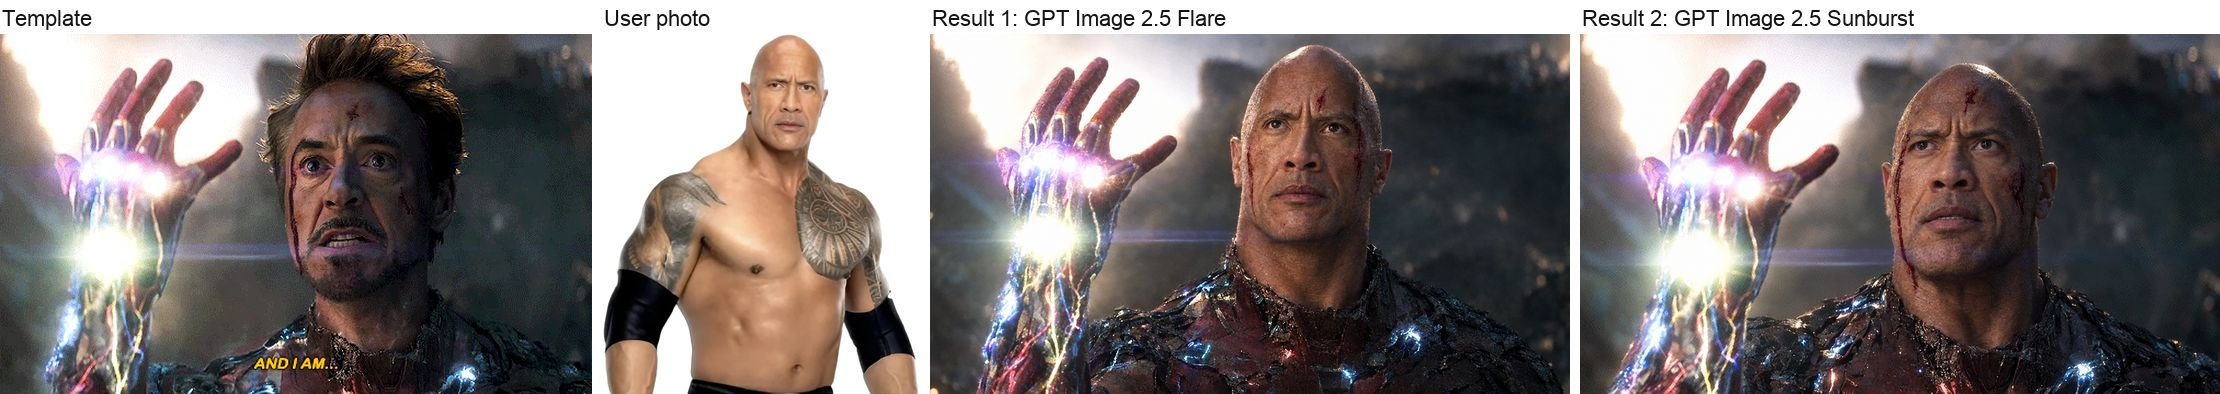
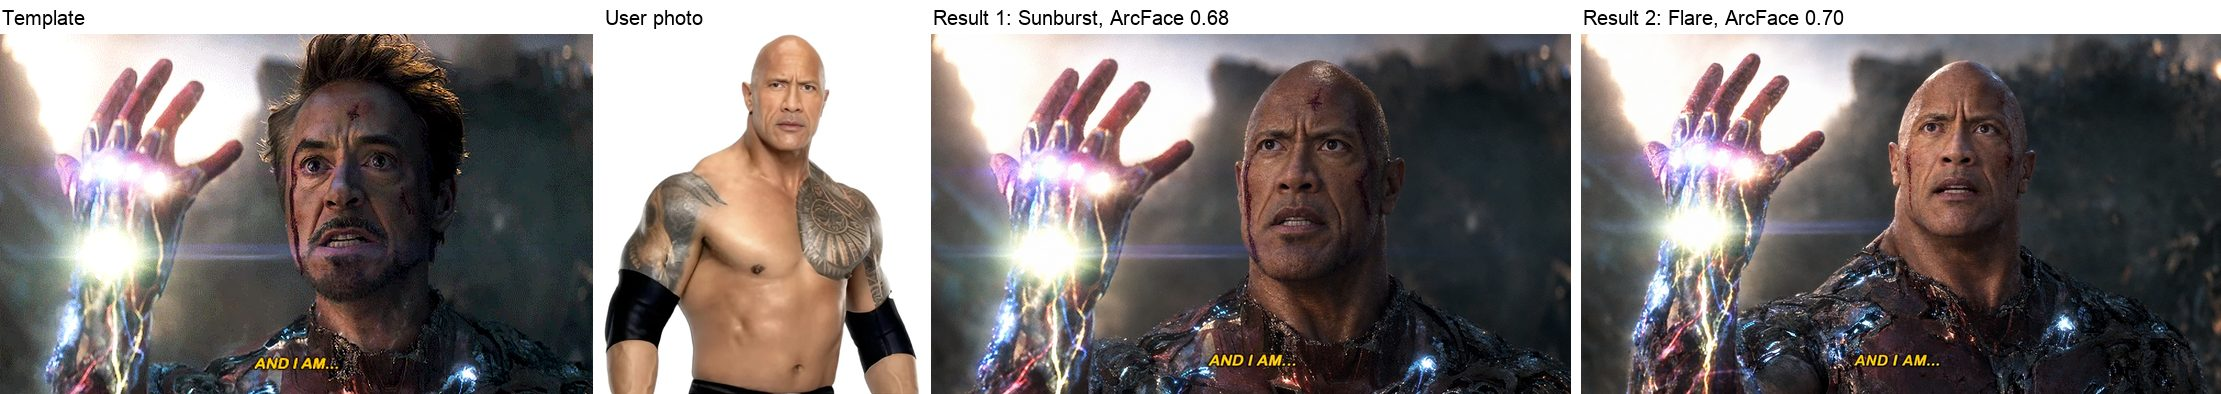
feat: child route tries GPT Image 2.5 first, all three cases pass
- Child route: Sunburst then Flare; a version OpenAI refuses moves to Seedream 5.0 Lite.
  FLUX.2 dev is no longer routed.
- Face repair is off unless ENABLE_FACE_REPAIR=true, in the workflow and the test runner.
- README: new results for all 5 directions (case 3 child -> adult now passes), ArcFace
  scores in the result strips, the new child-route rule, cost and time, where it fails.

Claude-Session: https://claude.ai/code/session_019DKUk5cNGWMUFkP1jeFoUm

diff --git a/tests/pipeline/runSwap.test.ts b/tests/pipeline/runSwap.test.ts
@@ -1,4 +1,4 @@
-import { describe, expect, it } from 'vitest';
+import { afterEach, describe, expect, it, vi } from 'vitest';
 import { FatalError, SpendCapError } from '@/src/errors';
 import { runSwap } from '@/src/pipeline/runSwap';
 import { analyze, generateVersion, prepareInputs } from '@/src/pipeline/steps';
@@ -17,6 +17,8 @@ function spyReservations(deps: Deps): Reservation[] {
 }
 
 describe('runSwap', () => {
+  afterEach(() => vi.unstubAllEnvs());
+
   it('adult job makes two versions and ranks them', async () => {
     const f = await makeFakes();
     const out = await runSwap(f.deps, f.input());
@@ -28,33 +30,28 @@ describe('runSwap', () => {
     expect(out.costs.length).toBeGreaterThan(0);
   });
 
-  it('child job never calls an OpenAI model', async () => {
+  it('a child job runs Sunburst and Flare first, never FLUX.2 dev', async () => {
     const f = await makeFakes({ templateAge: 9 });
     const out = await runSwap(f.deps, f.input());
     expect(out.analysis.route).toBe('child');
-    expect(f.calls.map((c) => c.model)).not.toContain('gpt-image-2.5-flare');
-    expect(f.calls.map((c) => c.model)).not.toContain('gpt-image-2.5-sunburst');
+    expect(f.calls.slice(0, 2).map((c) => c.model).sort()).toEqual(['gpt-image-2.5-flare', 'gpt-image-2.5-sunburst']);
+    expect(f.calls.map((c) => c.model)).not.toContain('flux-2-dev');
   });
 
-  it('a child job runs Seedream 5.0 Lite and FLUX.2 dev and reserves a real price for each, repair included', async () => {
-    // A small template face, so the best version also gets a face repair.
+  it('a child job reserves a real price for each version, repair included', async () => {
+    // A small template face and repair switched on, so the best version also gets a face repair.
+    vi.stubEnv('ENABLE_FACE_REPAIR', 'true');
     const f = await makeFakes({ templateAge: 9, templateFaceBox: { left: 0.45, top: 0.1, width: 0.05, height: 0.05 } });
     const reserved = spyReservations(f.deps);
     const out = await runSwap(f.deps, f.input());
     expect(out.result.status).toBe('done');
-    expect(f.calls.slice(0, 2).map((c) => c.model).sort()).toEqual(['flux-2-dev', 'seedream-5-lite']);
-    // FLUX.2 dev takes 3 images: the template and 2 refs.
-    expect(f.calls.find((c) => c.model === 'flux-2-dev')!.images).toHaveLength(3);
     const paidImages = reserved.filter((r) => r.step.startsWith('generate') || r.step === 'repair');
     expect(paidImages.map((r) => r.step).sort()).toEqual(['generate-a', 'generate-b', 'repair']);
-    for (const r of paidImages) {
-      expect(['seedream-5-lite', 'flux-2-dev']).toContain(r.provider);
-      expect(r.estimateUsd).toBeGreaterThan(0);
-    }
+    for (const r of paidImages) expect(r.estimateUsd).toBeGreaterThan(0);
   });
 
-  it('a child job with any child model unsupported fails CHILD_UNSUPPORTED before any image call', async () => {
-    for (const unsupported of [['seedream-5-lite', 'flux-2-dev'], ['flux-2-dev']] as const) {
+  it('a child job with any child-route model unsupported fails CHILD_UNSUPPORTED before any image call', async () => {
+    for (const unsupported of [['seedream-5-lite'], ['gpt-image-2.5-sunburst']] as const) {
       const f = await makeFakes({ templateAge: 9, unsupported: [...unsupported] });
       const err = await runSwap(f.deps, f.input()).catch((e) => e);
       expect(err).toBeInstanceOf(FatalError);
@@ -64,19 +61,28 @@ describe('runSwap', () => {
     }
   });
 
-  it('a refused child version has no fallback: the job finishes with the other version', async () => {
-    const f = await makeFakes({ templateAge: 9, behavior: { 'seedream-5-lite': 'refuse' } });
+  it('a refused child version moves to Seedream 5.0 Lite, and the refused one stays in the list', async () => {
+    const f = await makeFakes({ templateAge: 9, behavior: { 'gpt-image-2.5-sunburst': 'refuse' } });
     const out = await runSwap(f.deps, f.input());
-    expect(f.calls.map((c) => c.model).sort()).toEqual(['flux-2-dev', 'seedream-5-lite']);
+    expect(f.calls.map((c) => c.model).sort()).toEqual(['gpt-image-2.5-flare', 'gpt-image-2.5-sunburst', 'seedream-5-lite']);
     expect(out.result.status).toBe('done');
+    expect(out.result.ranked.filter((c) => c.refused).map((c) => c.model)).toEqual(['gpt-image-2.5-sunburst']);
   });
 
   it('all refused gives REFUSED_ALL', async () => {
-    const f = await makeFakes({ templateAge: 9, behavior: { 'seedream-5-lite': 'refuse', 'flux-2-dev': 'refuse' } });
+    const f = await makeFakes({
+      templateAge: 9,
+      behavior: { 'gpt-image-2.5-sunburst': 'refuse', 'gpt-image-2.5-flare': 'refuse', 'seedream-5-lite': 'refuse' },
+    });
     const out = await runSwap(f.deps, f.input());
     expect(out.result).toMatchObject({ status: 'failed', code: 'REFUSED_ALL' });
     // The refusal text must survive for the README.
-    expect(out.result.ranked.filter((c) => c.refused).map((c) => c.model).sort()).toEqual(['flux-2-dev', 'seedream-5-lite']);
+    expect(out.result.ranked.filter((c) => c.refused).map((c) => c.model).sort()).toEqual([
+      'gpt-image-2.5-flare',
+      'gpt-image-2.5-sunburst',
+      'seedream-5-lite',
+      'seedream-5-lite',
+    ]);
   });
 
   it('a timeout on B still finishes with A', async () => {
@@ -161,7 +167,7 @@ describe('runSwap', () => {
     });
     const out = await runSwap(f.deps, f.input());
     expect(out.analysis.route).toBe('child');
-    expect(f.calls.map((c) => c.model)).not.toContain('gpt-image-2.5-flare');
+    expect(f.calls.slice(0, 2).map((c) => c.model).sort()).toEqual(['gpt-image-2.5-flare', 'gpt-image-2.5-sunburst']);
     // The face to repair is the main person's face, never the bystander's.
     expect(out.prep.template.faceBox).toEqual({ left: 0.4, top: 0.1, width: 0.2, height: 0.3 });
   });
@@ -208,14 +214,23 @@ describe('runSwap', () => {
     expect(f.calls.filter((c) => c.model === 'gpt-image-2.5-sunburst')).toHaveLength(2);
   });
 
-  it('a small template face triggers repair', async () => {
+  it('a small template face triggers repair when ENABLE_FACE_REPAIR is true', async () => {
+    vi.stubEnv('ENABLE_FACE_REPAIR', 'true');
     const f = await makeFakes({ templateFaceBox: { left: 0.45, top: 0.1, width: 0.08, height: 0.1 } });
     const out = await runSwap(f.deps, f.input());
     if (out.result.status !== 'done') throw new Error('expected done');
     expect(out.result.ranked.some((c) => c.slot === 'repair')).toBe(true);
   });
 
+  it('a small template face makes no repair when the switch is off, as in the live app', async () => {
+    const f = await makeFakes({ templateFaceBox: { left: 0.45, top: 0.1, width: 0.08, height: 0.1 } });
+    const out = await runSwap(f.deps, f.input());
+    if (out.result.status !== 'done') throw new Error('expected done');
+    expect(out.result.ranked.some((c) => c.slot === 'repair')).toBe(false);
+  });
+
   it('a large template face does not trigger repair', async () => {
+    vi.stubEnv('ENABLE_FACE_REPAIR', 'true');
     const f = await makeFakes();
     const out = await runSwap(f.deps, f.input());
     if (out.result.status !== 'done') throw new Error('expected done');

diff --git a/tests/pipeline/rules.test.ts b/tests/pipeline/rules.test.ts
@@ -36,17 +36,14 @@ describe('route', () => {
     expect(chooseRoute([30, 16])).toBe('child');
   });
   it('adults stay on the adult route', () => expect(chooseRoute([25, 40])).toBe('adult'));
-  it('child route never contains an OpenAI or Google model', () => {
-    for (const swap of [false, true]) {
-      const m = modelsFor('child', swap);
-      expect([m.a, m.b, ...m.fallbacks]).not.toContain('gpt-image-2.5-flare');
-      expect([m.a, m.b, ...m.fallbacks]).not.toContain('gpt-image-2.5-sunburst');
-      for (const id of [m.a, m.b, ...m.fallbacks]) expect(id).not.toMatch(/gpt|openai|nano-banana|gemini|imagen|google/i);
-    }
+  it('child route is Sunburst then Flare, and each refused version falls back to Seedream 5.0 Lite', () => {
+    const want = { a: 'gpt-image-2.5-sunburst', b: 'gpt-image-2.5-flare', fallbacks: ['seedream-5-lite', 'seedream-5-lite'] };
+    expect(modelsFor('child', false)).toEqual(want);
+    expect(modelsFor('child', true)).toEqual(want);
   });
-  it('child route is Seedream 5.0 Lite then FLUX.2 dev, with no fallbacks', () => {
-    expect(modelsFor('child', false)).toEqual({ a: 'seedream-5-lite', b: 'flux-2-dev', fallbacks: [] });
-    expect(modelsFor('child', true)).toEqual({ a: 'seedream-5-lite', b: 'flux-2-dev', fallbacks: [] });
+  it('child route never uses a Google model or FLUX.2 dev', () => {
+    const m = modelsFor('child', false);
+    for (const id of [m.a, m.b, ...m.fallbacks]) expect(id).not.toMatch(/nano-banana|gemini|imagen|google|flux/i);
   });
   it('adult route uses flare then sunburst, swapped on request', () => {
     expect(modelsFor('adult', false)).toMatchObject({ a: 'gpt-image-2.5-flare', b: 'gpt-image-2.5-sunburst' });

diff --git a/src/workflow/swap.ts b/src/workflow/swap.ts
@@ -4,7 +4,7 @@ import { loadJob, stepAnalyze, stepEvaluate, stepFail, stepFinalize, stepGenerat
 
 /**
  * One swap job as a durable workflow. Same decisions as the in-process runSwap: 2 versions in
- * parallel, a fallback on refusal when the route lists one (none today), 1 retry of A on the adult route, face repair on
+ * parallel, a fallback on refusal when the route lists one (child route: Seedream), 1 retry of A on the adult route, face repair on
  * small faces. Before any version exists, a step that ends the job has already written it as
  * failed and the workflow stops. After that, every exit finalizes with the versions already
  * paid for: the user always sees every version.
@@ -49,7 +49,8 @@ export async function swapWorkflow(jobId: string) {
     }
 
     const best = rankCandidates(all)[0];
-    if (needsRepair(prep.value.template.faceBox) && best?.path) {
+    // Face repair is off unless ENABLE_FACE_REPAIR=true: it added artifacts in tests.
+    if (process.env.ENABLE_FACE_REPAIR === 'true' && needsRepair(prep.value.template.faceBox) && best?.path) {
       const r = await stepRepair(...ctx, best);
       if (!r.ok) return await stop();
       const e = await stepEvaluate(...ctx, r.value);

diff --git a/src/pipeline/route.ts b/src/pipeline/route.ts
@@ -7,16 +7,16 @@ export function chooseRoute(ageLows: number[]): Route {
 }
 
 /**
- * OpenAI and Google block edits of realistic photos of children by written rule, so the
- * child route never contains a GPT Image or Nano Banana model. No fallbacks: a refused child
- * version stays refused.
+ * Child route: GPT Image 2.5 first (2026-10-24: in a child-template test it accepted 12 of 12 child photos). OpenAI may
+ * still refuse a child photo, so each refused version moves to Seedream 5.0 Lite. FLUX.2 dev is no longer used: it
+ * kept the template child's body.
  */
 export function modelsFor(
   route: Route,
   swapAdultOrder: boolean,
   hint?: { ageBand?: string; text?: string },
 ): { a: ModelId; b: ModelId; fallbacks: ModelId[] } {
-  if (route === 'child') return { a: 'seedream-5-lite', b: 'flux-2-dev', fallbacks: [] };
+  if (route === 'child') return { a: 'gpt-image-2.5-sunburst', b: 'gpt-image-2.5-flare', fallbacks: ['seedream-5-lite', 'seedream-5-lite'] };
 
   // Older faces and strong jaws go to Sunburst first; Flare leads otherwise and runs faster.
   const preferSunburst =

diff --git a/tests/providers/machgen.test.ts b/tests/providers/machgen.test.ts
@@ -132,14 +132,12 @@ describe('machgen provider', () => {
     expect(out.usd).toBeCloseTo(0.004 * 1024 * 768 / 1e6, 6);
   });
 
-  it('never sends a child-route model to an OpenAI or Google model on MachGen', async () => {
-    for (const swap of [false, true]) {
-      const { a, b, fallbacks } = modelsFor('child', swap);
-      for (const model of [a, b, ...fallbacks]) {
-        const f = fakeHttp();
-        await make(f.http).generate({ ...req, model });
-        expect(String(f.posts[0].body.model)).not.toMatch(/gpt|openai|dall|nano-banana|gemini|imagen|google/i);
-      }
+  it('sends the child-route fallback to Seedream on MachGen, never to a Google model', async () => {
+    const { fallbacks } = modelsFor('child', false);
+    for (const model of fallbacks) {
+      const f = fakeHttp();
+      await make(f.http).generate({ ...req, model });
+      expect(f.posts[0].body.model).toBe('Seedream-5.0-lite');
     }
   });
 

diff --git a/src/providers/index.ts b/src/providers/index.ts
@@ -32,7 +32,7 @@ export function createProviders(opts: { mode: CacheMode; cacheDir: string; env?:
     }),
     images: (() => {
       const machgen = createMachGen({ mode: opts.mode, cacheDir: opts.cacheDir, apiKey: need('MACHGEN_API_KEY') });
-      // Both routes run on MachGen. Child photos never reach an OpenAI or Google model (see modelsFor).
+      // Both routes run on MachGen. Child photos never reach a Google model (see modelsFor).
       return routeImages({
         'gpt-image-2.5-flare': machgen,
         'gpt-image-2.5-sunburst': machgen,

diff --git a/src/types.ts b/src/types.ts
@@ -29,7 +29,8 @@ export type SceneCard = {
 
 export type Route = 'adult' | 'child';
 
-// Adult route: GPT Image 2.5 on MachGen. Child route: Seedream 5.0 Lite and FLUX.2 dev, also on MachGen.
+// Both routes: GPT Image 2.5 on MachGen. Child route: Seedream 5.0 Lite for a refused version. FLUX.2 dev is kept
+// in the list so stored jobs still parse; no route uses it.
 export type ModelId = 'gpt-image-2.5-flare' | 'gpt-image-2.5-sunburst' | 'seedream-5-lite' | 'flux-2-dev';
 
 export type Quality = 'high' | 'medium';

diff --git a/src/pipeline/runSwap.ts b/src/pipeline/runSwap.ts
@@ -49,7 +49,8 @@ export async function runSwap(
   }
 
   const best = rankCandidates(all)[0];
-  if (needsRepair(prep.template.faceBox) && best?.path) {
+  // Same switch as the server workflow: face repair is off unless ENABLE_FACE_REPAIR=true.
+  if (process.env.ENABLE_FACE_REPAIR === 'true' && needsRepair(prep.template.faceBox) && best?.path) {
     all = [...all, await evaluate(deps, input, prep, an, await repair(deps, input, prep, an, best))];
   }
 

diff --git a/README.md b/README.md
@@ -15,15 +15,19 @@ Aurify take-home, photo track.
 
 One set of photos, every direction the brief asks for, run through the full pipeline with `pnpm harness`
 (2026-10-24). Each row shows the template, the user photo, and every version the app made, best first. The photos of
-well-known people are test inputs only. The children's faces are blurred in this repository; the app saw them unblurred.
+well-known people are test inputs only. Rekognition and face repair were off, as on the live app.
+
+**Scores.** Each result label shows its **ArcFace** score: a local face model that compares the result with the user
+photo, from -1 to 1. Two real photos of the same person score about 0.76 to 0.91; different people score near 0. It
+sees the inner face only, not the body.
 
 | Case | Template → user | Route | Verdict |
 |---|---|---|---|
-| 1 | Man → man | adult | **Pass.** The user's face; the raised hand, armour, cut and light kept. The anguished expression became calm. |
-| 2 | Man → woman | adult | **Pass.** Her face and hair, a woman; armour and light kept. |
+| 1 | Man → man | adult | **Pass, both versions.** The user's face; the raised hand, armour, cut, light and subtitle kept. |
+| 2 | Man → woman | adult | **Pass** (Sunburst). Her face and hair, a woman; armour and light kept, the subtitle lost. OpenAI refused Flare twice. |
 | 2 | Woman → man | adult | **Pass, both versions.** His face, build and tattoos at full draw; the uniform adapted to a man. |
-| 3 | Adult → child | child | **Pass** (Seedream): a toddler at toddler size, in the uniform, at full draw. FLUX.2 dev lost the draw pose. |
-| 3 | Child → adult (man) | child | **Not done.** See below. |
+| 3 | Adult → child | child | **Pass, both versions.** A toddler at toddler size, in the uniform, at full draw. OpenAI refused Sunburst, so that version came from Seedream. |
+| 3 | Child → adult (man) | child | **Pass, both versions.** The man in the boy's jersey, headband, face paint and wristbands, doing the same clap. |
 
 **Case 1, man → man.** ![Case 1](results/case-1.jpg)
 
@@ -33,17 +37,16 @@ well-known people are test inputs only. The children's faces are blurred in this
 
 **Case 3, adult → child.** ![Case 3a](results/case-3a.jpg)
 
-**Case 3, child → adult: not done in time.** ![Case 3b](results/case-3b.jpg)
+**Case 3, child → adult.** ![Case 3b](results/case-3b.jpg)
 
-A child template goes to the child route, and both child-route models fell short here. Seedream 5.0 Lite refused the
-user photo in both runs ("the output image may contain sensitive information"); the photo is shirtless. FLUX.2 dev
-put the user's face and body in, but kept the boy's arms and dropped his jersey for the user's bare chest. With the
-time I had and these two models, I could not make this case work. Next steps: a clothed user photo, and a third
-child-route model.
+Before 2026-10-24 this case failed. Seedream 5.0 Lite refused the user photo ("the output image may contain sensitive
+information"), and FLUX.2 dev kept the boy's arms and dropped his jersey. The child route now tries GPT Image 2.5 first,
+and both versions passed.
 
-**One rule I added to the brief's rules.** Child photos never go to OpenAI or Google models: both block edits of
-realistic child photos by policy. So when any photo shows a child, both versions come from the child route, even for
-an adult user on a child template. That route has no fallback model: a refused version stays refused.
+**How the child route works.** When any photo shows a child, the job takes the child route, even for an adult user on
+a child template. It tries GPT Image 2.5 Sunburst and Flare first. OpenAI's policy limits edits of realistic child
+photos, so it may refuse: in this test it refused 1 of 4 child-route requests. Each refused version moves to Seedream
+5.0 Lite, and the refused one stays in the list. Child photos never go to a Google model.
 
 ## Run locally
 
@@ -100,10 +103,10 @@ Step by step, with the checks to run after: `docs/deploy.md`.
  Workflow (one step per function call, each under 300 s):
    prepare   Rekognition: faces, age, person box → reject bad photos, pick the route
    analyze   Qwen 3.8 Max (xKiro): identity kit (person) + scene card (template)
-   generate  2 versions in parallel through MachGen (child route: Seedream 5.0 Lite + FLUX.2 dev)
+   generate  2 versions in parallel through MachGen (child route: a refused version moves to Seedream 5.0 Lite)
    evaluate  Rekognition CompareFaces score + Qwen body and face-shape check per version
    retry     adult route only: 1 more version if the best score is under FACE_T
-   repair    template face under 15% of image height → redraw the face crop, paste back
+   repair    off unless ENABLE_FACE_REPAIR=true: template face under 15% of image height → redraw the face crop
    finalize  rank every version (none hidden), save to Neon
 ```
 
@@ -124,24 +127,24 @@ photo as it uploads and to cut those close-ups. The rules behind the screens are
 |---|---|---|
 | Adult, version A | GPT Image 2.5 Flare (MachGen) | best ArcFace score in 6 of 6 paired spike runs vs Sunburst; 2× faster (44 to 48 s) |
 | Adult, version B (a face rerun swaps A and B) | GPT Image 2.5 Sunburst (MachGen) | the owner's favourite face shape once (run #8); very stable with fixed text |
-| Child route, version A | Seedream 5.0 Lite (ByteDance, partner-hosted on MachGen) | not OpenAI or Google; $0.038 per image flat; up to 14 inputs. Refused 8 of 12 child versions on the live app |
-| Child route, version B | FLUX.2 dev (open model, on MachGen's own GPUs) | $0.004 per output MP: $0.003 to $0.007 at the sizes used (1024x768, 1024x1024, 1024x1808). Up to 3 inputs (template + 2 photos). 0 refusals in 14 live versions, median 10 s |
+| Child route, versions A and B | GPT Image 2.5 Sunburst, then Flare (MachGen) | since 2026-10-24. In a 12-image child-template test, OpenAI accepted 12 of 12 child photos |
+| Child route, a refused version | Seedream 5.0 Lite (ByteDance, partner-hosted on MachGen) | not OpenAI or Google; $0.038 per image flat; up to 14 inputs. Refused 8 of 12 child versions on the live app when it was version A |
 | Photo gate, age, likeness score | AWS Rekognition | $0.001 per image, 0–100 face score |
 | Identity kit, scene mood, body and face-shape check | Qwen 3.8 Max on xKiro (`qwen/qwen3.8-max:free`; backups Qwen3 VL Plus, qwen3.7-flash, qwen3.5-omni-flash on 429/503) | free tier, 6 to 13 s per call. Gemini dropped: its key hit quota (429) |
 
-**Child photos never go to OpenAI or Google.** Both block edits of realistic child photos by written policy, so the
-route is chosen from the youngest face Rekognition finds in any photo. In the working copy, Qwen's age reading of the
-template and the user also counts. No fallbacks: a refused child version stays refused.
+**Child photos go to OpenAI first, never to Google.** The route is chosen from the youngest face Rekognition finds in
+any photo. In the working copy, Qwen's age reading of the template and the user also counts. The risk is a refusal, or
+an action on the MachGen or OpenAI account, because OpenAI's policy limits edits of realistic child photos.
 
-**Where child photos go.** Seedream 5.0 Lite is partner-hosted: MachGen passes the photos through to ByteDance.
-Only FLUX.2 dev keeps the photos on MachGen's own GPUs. The FLUX.2 dev weights carry a non-commercial license;
-check MachGen's terms before commercial use.
+**Where child photos go.** GPT Image 2.5 runs through MachGen to OpenAI. Seedream 5.0 Lite is partner-hosted: MachGen
+passes the photos through to ByteDance.
 
 **Tried or dropped**
 
 - **fal.ai:** dropped by the owner on 2026-10-21. MachGen sells the adult models and was already paid for.
 - **GPT Image 2:** dropped. ArcFace scored it well, but the owner rejected its faces by eye.
 - **Nano Banana Pro / 2:** weakest published face scores, and it blocks children.
+- **FLUX.2 dev on the child route:** dropped on 2026-10-24. It kept the template child's arms in case 3 (child → adult).
 - **Generated angle views as extra references:** dropped. The model would not turn the head, and the face drifted.
 - **Face lock** (a face-swap model after generation): dropped in design v2. It replaces only the inner face, so
   the template person's head and hair stay; the common model works at 128 px and has a non-commercial license.
@@ -155,7 +158,7 @@ the last saved version, so it includes queueing, photo checks and vision calls. 
 | Route | Finished jobs | Time per result, median (range) | Cost per result, median (range) |
 |---|---|---|---|
 | Adult: 2 GPT Image 2.5 versions, sometimes 1 retry | 13 of 28 | 145 s (101–244 s) | $0.29 ($0.20–$0.54) |
-| Child: Seedream 5.0 Lite + FLUX.2 dev | 11 of 11 | 88 s (80–165 s) | $0.06 ($0.06–$0.10) |
+| Child, before 2026-10-24: Seedream 5.0 Lite + FLUX.2 dev | 11 of 11 | 88 s (80–165 s) | $0.06 ($0.06–$0.10) |
 
 | Call | Calls | Time: 90th percentile (max) | Cost per call | Refused versions |
 |---|---|---|---|---|
@@ -166,28 +169,34 @@ the last saved version, so it includes queueing, photo checks and vision calls. 
 | Qwen vision (identity, scene, body check) | 122 | 13 s (32 s); median 8.7 s | $0, free tier | |
 | Rekognition | 164 | 3.5 s (5.7 s); median 1.1 s | $0.001 per image | |
 
-**The case test above** (local, 2026-10-24): 73–352 s and $0.06–$0.43 per case. The app books MachGen's gross price;
-MachGen's own usage report showed it charged less ($0.66 against $0.85 booked on the first run) and refunded failed tasks.
+The child route now uses GPT Image 2.5, so a child job costs about as much as an adult job. The live app has not
+measured it yet.
+
+**The case test above** (local, 2026-10-24): 111–296 s and $0.20–$0.43 per case. The app books MachGen's gross price;
+MachGen's wallets show it charged less ($1.04 against $1.61 booked for the 5 cases) and refunded failed tasks.
 
 **Earlier single-swap tests** at 1280×848: Flare 45–66 s, Sunburst 84–123 s, $0.118 per image (gross).
 
 ## Where it fails
 
-1. **Child template with an adult user (case 3).** Not done in time: Seedream refuses, FLUX.2 dev keeps parts of the
-   child (see Results).
+1. **OpenAI refuses some photos.** In the case test it refused 3 of 11 requests: Flare twice on case 2 (man → woman)
+   and Sunburst once on the baby user. A refused child-route version moves to Seedream; on the adult route it stays
+   refused, so case 2 (man → woman) has 1 version.
 2. **Adult jobs failed often on the live app:** 15 of 28. 11 were provider errors, most when the MachGen wallet ran
    empty; the app now moves to the next MachGen key when one runs out. 4 were refused by both models.
 3. **Routing rests on age guesses.** With Rekognition on, it guessed an adult archer at 15–21 and the job took the
    child route; the low end of the range decided. Rekognition is off on the live app, so the route rests on Qwen.
 4. **The likeness score cannot rank results.** Rekognition scored almost every version 99.8–100; it caught only a
-   total failure (4.6). On the live app it is off, so every version gets the same fixed score.
+   total failure (4.6). On the live app it is off, so every version gets the same fixed score. The scores in Results are
+   ArcFace, run locally.
 5. **The body check is not reliable.** Qwen sometimes judges backwards: it failed a correct version for "keeping the
-   real person instead of adopting the template". Its free tier was also busy at times, so some versions had no check.
-6. **The expression is not always kept.** In case 1 the template's anguished face became calm.
+   real person instead of adopting the template". Its free tier was also busy at times: in the case test, 4 of 9 versions had no check.
+6. **The expression is not always kept.** In case 1 Sunburst made the anguished face tense, not anguished; in case 2
+   (man → woman) it became calm, with tears.
 7. **Most test users are well-known people.** Image models may already know these faces. My own face, which the
    models do not know, scored 0.57–0.59 on a local face model against 0.80–0.85 for well-known faces.
 8. **Face repair adds artifacts.** It pasted a small copy of the user's photo into one result and an extra face into
-   another. The working copy now skips it by default; this snapshot still runs it.
+   another. It is now off unless `ENABLE_FACE_REPAIR=true`.
 9. **Most cases have 1 run.** Image models give a different result each time.
 
 ## Repository
